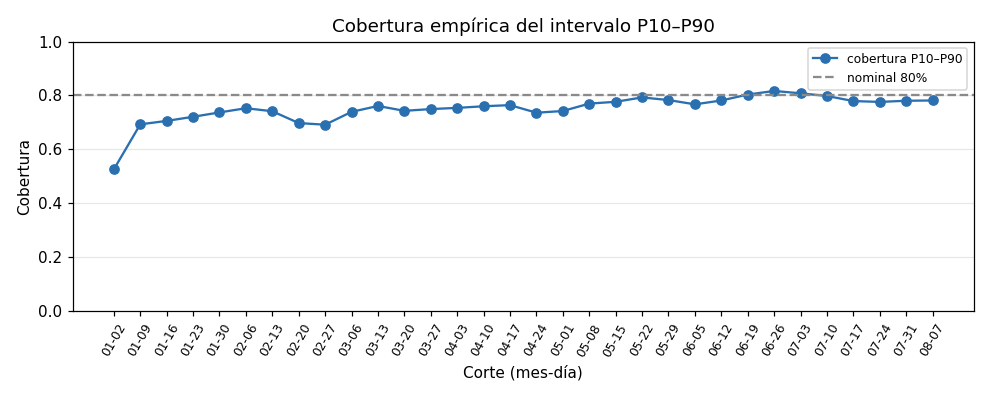
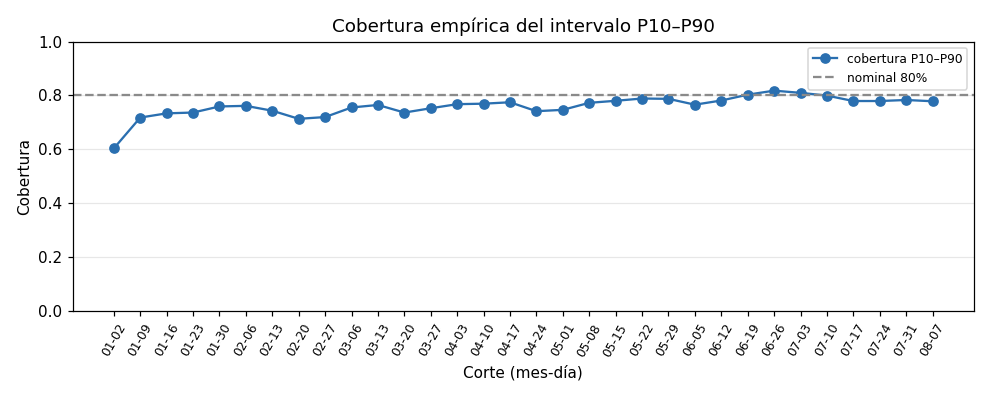
chore: backfill completo con las correcciones de la revisión independiente (#13)
Datos (.dvc), reportes de comparación y seguimiento, resultados antes/después en DECISIONES
y nota en plan/ESTADO.md. Backfill 2017-01-02 → 2017-08-14 en Docker con el código de fd25eca.

diff --git a/reports/seguimiento.md b/reports/seguimiento.md
@@ -4,48 +4,48 @@ Compara cada pronóstico publicado con las ventas reales visibles en la fecha de
 
 ## Alerta de degradación
 
-WAPE móvil 0.1370 vs backtest 0.1742 (-21.4%): dentro del umbral de 20%
+WAPE móvil 0.1366 vs backtest 0.1746 (-21.8%): dentro del umbral de 20%
 
-- WAPE móvil (4 cortes: 2017-07-17, 2017-07-24, 2017-07-31, 2017-08-07): **0.1370**
-- WAPE del backtest del champion (lgbm-2017-01-02-496d76f4): 0.1742
+- WAPE móvil (4 cortes: 2017-07-17, 2017-07-24, 2017-07-31, 2017-08-07): **0.1366**
+- WAPE del backtest del champion (lgbm-2017-01-02-d1a22558): 0.1746
 - Umbral: +20% (solo advertencia, sin reentrenamiento automático)
 
 ## Desempeño por corte (última revisión de cada corte)
 
 | Corte | Rev | Estado | Días con real | WAPE | RMSLE | Sesgo | Cobertura P10–P90 | Costo | Costo total | Fill rate |
 |---|---|---|---|---|---|---|---|---|---|---|
-| 2017-01-02 | 1 | completo | 14 | 0.5631 | 0.6847 | -0.559 | 0.526 | completo | 4,022,376 | 0.4579 |
-| 2017-01-09 | 1 | completo | 14 | 0.1586 | 0.4144 | -0.048 | 0.693 | completo | 447,316 | 0.9388 |
-| 2017-01-16 | 1 | completo | 14 | 0.1503 | 0.4053 | -0.031 | 0.706 | completo | 385,471 | 0.9480 |
-| 2017-01-23 | 1 | completo | 14 | 0.1505 | 0.4555 | -0.058 | 0.721 | completo | 294,318 | 0.9632 |
-| 2017-01-30 | 1 | completo | 14 | 0.1395 | 0.4399 | -0.055 | 0.737 | completo | 529,833 | 0.9235 |
-| 2017-02-06 | 2 | completo | 14 | 0.1169 | 0.5090 | -0.007 | 0.753 | completo | 351,549 | 0.9528 |
-| 2017-02-13 | 1 | completo | 14 | 0.1399 | 0.5304 | -0.005 | 0.742 | completo | 308,336 | 0.9659 |
-| 2017-02-20 | 1 | completo | 14 | 0.1959 | 0.5039 | -0.127 | 0.698 | completo | 433,621 | 0.9424 |
-| 2017-02-27 | 1 | completo | 14 | 0.1871 | 0.4681 | -0.149 | 0.691 | completo | 1,110,891 | 0.8378 |
-| 2017-03-06 | 1 | completo | 14 | 0.1321 | 0.3988 | -0.089 | 0.739 | completo | 489,623 | 0.9210 |
-| 2017-03-13 | 2 | completo | 14 | 0.1315 | 0.4122 | -0.088 | 0.761 | completo | 511,793 | 0.9199 |
-| 2017-03-20 | 1 | completo | 14 | 0.1512 | 0.5585 | -0.088 | 0.743 | completo | 489,987 | 0.9231 |
-| 2017-03-27 | 1 | completo | 14 | 0.1501 | 0.5385 | -0.056 | 0.750 | completo | 559,827 | 0.9215 |
-| 2017-04-03 | 1 | completo | 14 | 0.1400 | 0.4418 | -0.040 | 0.754 | completo | 381,792 | 0.9539 |
-| 2017-04-10 | 1 | completo | 14 | 0.1326 | 0.4222 | -0.027 | 0.760 | completo | 386,571 | 0.9469 |
-| 2017-04-17 | 1 | completo | 14 | 0.1441 | 0.7361 | -0.041 | 0.764 | completo | 464,654 | 0.9493 |
-| 2017-04-24 | 1 | completo | 14 | 0.1676 | 0.4513 | -0.081 | 0.736 | completo | 467,434 | 0.9365 |
-| 2017-05-01 | 1 | completo | 14 | 0.1575 | 0.4411 | -0.069 | 0.742 | completo | 677,130 | 0.9099 |
-| 2017-05-08 | 2 | completo | 14 | 0.1308 | 0.4368 | -0.027 | 0.770 | completo | 397,868 | 0.9680 |
-| 2017-05-15 | 1 | completo | 14 | 0.1335 | 0.4248 | -0.075 | 0.777 | completo | 423,496 | 0.9400 |
-| 2017-05-22 | 1 | completo | 14 | 0.1319 | 0.3999 | -0.055 | 0.793 | completo | 312,089 | 0.9580 |
-| 2017-05-29 | 1 | completo | 14 | 0.1362 | 0.3986 | -0.072 | 0.783 | completo | 403,707 | 0.9484 |
-| 2017-06-05 | 1 | completo | 14 | 0.1295 | 0.4003 | -0.049 | 0.767 | completo | 419,039 | 0.9415 |
-| 2017-06-12 | 1 | completo | 14 | 0.1183 | 0.3900 | -0.021 | 0.781 | completo | 277,677 | 0.9681 |
-| 2017-06-19 | 1 | completo | 14 | 0.1094 | 0.3900 | -0.024 | 0.803 | completo | 255,864 | 0.9708 |
-| 2017-06-26 | 1 | parcial | 13 | 0.1071 | 0.3771 | -0.010 | 0.817 | completo | 281,626 | 0.9762 |
-| 2017-07-03 | 1 | parcial | 13 | 0.1086 | 0.3792 | -0.009 | 0.808 | pendiente | — | — |
-| 2017-07-10 | 1 | completo | 14 | 0.1172 | 0.3890 | -0.008 | 0.798 | completo | 309,744 | 0.9729 |
-| 2017-07-17 | 1 | completo | 14 | 0.1272 | 0.4065 | -0.043 | 0.779 | completo | 311,756 | 0.9688 |
-| 2017-07-24 | 1 | completo | 14 | 0.1362 | 0.4292 | -0.042 | 0.776 | completo | 436,220 | 0.9389 |
-| 2017-07-31 | 1 | completo | 14 | 0.1423 | 0.4360 | +0.002 | 0.780 | completo | 355,876 | 0.9661 |
-| 2017-08-07 | 1 | parcial | 7 | 0.1485 | 0.4093 | +0.034 | 0.781 | completo | 429,266 | 0.9695 |
+| 2017-01-02 | 1 | completo | 14 | 0.2172 | 0.5514 | -0.156 | 0.604 | completo | 1,524,326 | 0.7984 |
+| 2017-01-09 | 1 | completo | 14 | 0.1413 | 0.4112 | -0.034 | 0.718 | completo | 440,487 | 0.9446 |
+| 2017-01-16 | 1 | completo | 14 | 0.1314 | 0.4031 | -0.014 | 0.734 | completo | 387,662 | 0.9523 |
+| 2017-01-23 | 1 | completo | 14 | 0.1334 | 0.4508 | -0.033 | 0.737 | completo | 301,973 | 0.9655 |
+| 2017-01-30 | 1 | completo | 14 | 0.1300 | 0.4445 | -0.036 | 0.759 | completo | 457,989 | 0.9371 |
+| 2017-02-06 | 2 | completo | 14 | 0.1163 | 0.5135 | +0.009 | 0.761 | completo | 278,878 | 0.9700 |
+| 2017-02-13 | 1 | completo | 14 | 0.1483 | 0.5360 | +0.015 | 0.743 | completo | 285,933 | 0.9800 |
+| 2017-02-20 | 1 | completo | 14 | 0.1878 | 0.5125 | -0.103 | 0.713 | completo | 429,938 | 0.9564 |
+| 2017-02-27 | 1 | completo | 14 | 0.1811 | 0.4784 | -0.141 | 0.720 | completo | 989,108 | 0.8568 |
+| 2017-03-06 | 1 | completo | 14 | 0.1351 | 0.4020 | -0.092 | 0.755 | completo | 471,417 | 0.9243 |
+| 2017-03-13 | 2 | completo | 14 | 0.1320 | 0.4125 | -0.086 | 0.765 | completo | 481,125 | 0.9255 |
+| 2017-03-20 | 1 | completo | 14 | 0.1529 | 0.5599 | -0.089 | 0.737 | completo | 465,286 | 0.9273 |
+| 2017-03-27 | 1 | completo | 14 | 0.1500 | 0.5398 | -0.050 | 0.753 | completo | 509,013 | 0.9301 |
+| 2017-04-03 | 1 | completo | 14 | 0.1393 | 0.4413 | -0.036 | 0.768 | completo | 363,482 | 0.9571 |
+| 2017-04-10 | 1 | completo | 14 | 0.1346 | 0.4250 | -0.024 | 0.770 | completo | 378,907 | 0.9550 |
+| 2017-04-17 | 1 | completo | 14 | 0.1444 | 0.6602 | -0.036 | 0.775 | completo | 464,567 | 0.9497 |
+| 2017-04-24 | 1 | completo | 14 | 0.1677 | 0.4535 | -0.084 | 0.742 | completo | 475,237 | 0.9350 |
+| 2017-05-01 | 1 | completo | 14 | 0.1569 | 0.4427 | -0.072 | 0.747 | completo | 683,989 | 0.9082 |
+| 2017-05-08 | 2 | completo | 14 | 0.1323 | 0.4379 | -0.031 | 0.773 | completo | 380,388 | 0.9681 |
+| 2017-05-15 | 1 | completo | 14 | 0.1358 | 0.4252 | -0.077 | 0.780 | completo | 435,448 | 0.9372 |
+| 2017-05-22 | 1 | completo | 14 | 0.1343 | 0.4001 | -0.058 | 0.789 | completo | 314,672 | 0.9566 |
+| 2017-05-29 | 1 | completo | 14 | 0.1378 | 0.3988 | -0.074 | 0.788 | completo | 400,081 | 0.9488 |
+| 2017-06-05 | 1 | completo | 14 | 0.1302 | 0.4007 | -0.055 | 0.766 | completo | 455,613 | 0.9347 |
+| 2017-06-12 | 1 | completo | 14 | 0.1192 | 0.3909 | -0.025 | 0.781 | completo | 290,211 | 0.9647 |
+| 2017-06-19 | 1 | completo | 14 | 0.1094 | 0.3903 | -0.027 | 0.803 | completo | 265,122 | 0.9684 |
+| 2017-06-26 | 1 | parcial | 13 | 0.1070 | 0.3768 | -0.012 | 0.818 | completo | 284,317 | 0.9768 |
+| 2017-07-03 | 1 | parcial | 13 | 0.1078 | 0.3788 | -0.011 | 0.810 | pendiente | — | — |
+| 2017-07-10 | 1 | completo | 14 | 0.1179 | 0.3889 | -0.009 | 0.800 | completo | 312,568 | 0.9739 |
+| 2017-07-17 | 1 | completo | 14 | 0.1276 | 0.4067 | -0.046 | 0.779 | completo | 312,548 | 0.9688 |
+| 2017-07-24 | 1 | completo | 14 | 0.1355 | 0.4292 | -0.046 | 0.779 | completo | 440,032 | 0.9380 |
+| 2017-07-31 | 1 | completo | 14 | 0.1413 | 0.4355 | +0.001 | 0.783 | completo | 342,430 | 0.9684 |
+| 2017-08-07 | 1 | parcial | 7 | 0.1483 | 0.4085 | +0.034 | 0.779 | completo | 439,193 | 0.9708 |
 | 2017-08-14 | 1 | sin_datos | 0 | — | — | — | — | pendiente | — | — |
 
 ## Real pendiente (días que ya debieron llegar y faltan)
@@ -57,47 +57,47 @@ WAPE móvil 0.1370 vs backtest 0.1742 (-21.4%): dentro del umbral de 20%
 
 | Corte | Rev | Emitida en | Estado | WAPE |
 |---|---|---|---|---|
-| 2017-02-06 | 2 | 2017-02-13 | completo | 0.1169 |
-| 2017-03-13 | 2 | 2017-03-20 | completo | 0.1315 |
-| 2017-05-08 | 2 | 2017-05-15 | completo | 0.1308 |
+| 2017-02-06 | 2 | 2017-02-13 | completo | 0.1163 |
+| 2017-03-13 | 2 | 2017-03-20 | completo | 0.1320 |
+| 2017-05-08 | 2 | 2017-05-15 | completo | 0.1323 |
 
 ## Desempeño por familia (ventana móvil)
 
 | Familia | WAPE | Costo |
 |---|---|---|
-| BOOKS | 1.3165 | 42 |
-| HOME APPLIANCES | 1.1794 | 164 |
-| BABY CARE | 1.0001 | 107 |
-| SCHOOL AND OFFICE SUPPLIES | 0.8698 | 28,772 |
-| HARDWARE | 0.7090 | 315 |
-| LINGERIE | 0.4996 | 962 |
-| CELEBRATION | 0.3886 | 1,547 |
-| MAGAZINES | 0.3831 | 675 |
-| AUTOMOTIVE | 0.3808 | 738 |
-| GROCERY II | 0.3784 | 9,219 |
-| BEAUTY | 0.3614 | 602 |
-| LADIESWEAR | 0.3513 | 1,048 |
-| HOME AND KITCHEN II | 0.3357 | 3,481 |
-| HOME AND KITCHEN I | 0.3334 | 3,564 |
-| PET SUPPLIES | 0.3119 | 740 |
-| PLAYERS AND ELECTRONICS | 0.2991 | 909 |
-| LAWN AND GARDEN | 0.2841 | 1,138 |
-| LIQUOR,WINE,BEER | 0.2664 | 9,596 |
-| CLEANING | 0.2273 | 135,316 |
-| SEAFOOD | 0.2107 | 4,095 |
-| EGGS | 0.1776 | 35,164 |
-| HOME CARE | 0.1763 | 15,889 |
-| PREPARED FOODS | 0.1743 | 15,741 |
-| FROZEN FOODS | 0.1710 | 24,196 |
-| PERSONAL CARE | 0.1542 | 13,943 |
-| BEVERAGES | 0.1483 | 363,030 |
-| MEATS | 0.1277 | 46,380 |
-| DELI | 0.1194 | 31,560 |
-| POULTRY | 0.1183 | 44,091 |
-| GROCERY I | 0.1137 | 366,931 |
-| BREAD/BAKERY | 0.1088 | 64,453 |
-| DAIRY | 0.1062 | 96,866 |
-| PRODUCE | 0.0891 | 211,844 |
+| BOOKS | 1.4056 | 44 |
+| HOME APPLIANCES | 1.1792 | 166 |
+| BABY CARE | 1.0074 | 109 |
+| SCHOOL AND OFFICE SUPPLIES | 0.8646 | 28,564 |
+| HARDWARE | 0.7085 | 316 |
+| LINGERIE | 0.4996 | 990 |
+| CELEBRATION | 0.3893 | 1,551 |
+| MAGAZINES | 0.3823 | 674 |
+| GROCERY II | 0.3806 | 9,460 |
+| AUTOMOTIVE | 0.3797 | 741 |
+| BEAUTY | 0.3625 | 601 |
+| LADIESWEAR | 0.3498 | 1,089 |
+| HOME AND KITCHEN II | 0.3356 | 3,514 |
+| HOME AND KITCHEN I | 0.3313 | 3,595 |
+| PET SUPPLIES | 0.3111 | 756 |
+| PLAYERS AND ELECTRONICS | 0.2984 | 912 |
+| LAWN AND GARDEN | 0.2835 | 1,159 |
+| LIQUOR,WINE,BEER | 0.2691 | 9,616 |
+| CLEANING | 0.2285 | 134,776 |
+| SEAFOOD | 0.2158 | 4,491 |
+| EGGS | 0.1755 | 34,175 |
+| HOME CARE | 0.1717 | 16,057 |
+| PREPARED FOODS | 0.1698 | 15,195 |
+| FROZEN FOODS | 0.1698 | 23,830 |
+| PERSONAL CARE | 0.1541 | 14,688 |
+| BEVERAGES | 0.1479 | 367,199 |
+| MEATS | 0.1253 | 45,243 |
+| DELI | 0.1167 | 30,725 |
+| POULTRY | 0.1164 | 43,331 |
+| GROCERY I | 0.1145 | 367,893 |
+| BREAD/BAKERY | 0.1071 | 63,743 |
+| DAIRY | 0.1035 | 92,944 |
+| PRODUCE | 0.0879 | 216,056 |
 
 ## Gráficos
 

diff --git a/reports/comparacion_modelos.md b/reports/comparacion_modelos.md
@@ -6,22 +6,22 @@ Backtest rolling-origin con 8 orígenes semanales (2017-06-12 a 2017-07-31), mis
 
 | Métrica | Baseline | LightGBM | Cambio relativo |
 |---|---|---|---|
-| WAPE (mediana) | 0.1425 | 0.1207 | -15.3% |
-| RMSLE (mediana) | 0.4516 | 0.4000 | -11.4% |
-| Pinball q0.50 | 33.941 | 28.741 | -15.3% |
-| Pinball q0.90 | 23.003 | 17.111 | -25.6% |
-| Cobertura P10-P90 | 0.8431 | 0.7991 | -5.2% |
-| Costo de negocio total | 2,991,009 | 2,379,594 | -20.4% |
-| Fill rate | 0.9741 | 0.9724 | -0.2% |
-| Merma (% de lo pedido) | 0.1062 | 0.0601 | -43.4% |
+| WAPE (mediana) | 0.1412 | 0.1197 | -15.2% |
+| RMSLE (mediana) | 0.4513 | 0.3998 | -11.4% |
+| Pinball q0.50 | 33.626 | 28.508 | -15.2% |
+| Pinball q0.90 | 22.378 | 17.070 | -23.7% |
+| Cobertura P10-P90 | 0.8412 | 0.8019 | -4.7% |
+| Costo de negocio total | 2,949,032 | 2,363,349 | -19.9% |
+| Fill rate | 0.9730 | 0.9722 | -0.1% |
+| Merma (% de lo pedido) | 0.1018 | 0.0595 | -41.5% |
 
 ## Decisión de promoción (LightGBM como challenger del baseline)
 
 **PROMOVER**
 
-- cumple: el costo total baja 20.4% (se exige al menos 3%)
-- cumple: el WAPE cambia -15.3% (se tolera hasta +1%)
-- cumple: cobertura P10-P90 0.799 (rango [0.7, 0.9])
+- cumple: el costo total baja 19.9% (se exige al menos 3%)
+- cumple: el WAPE cambia -15.2% (se tolera hasta +1%)
+- cumple: cobertura P10-P90 0.802 (rango [0.7, 0.9])
 - cumple: ninguna familia grande empeora su costo de forma material
 - cumple: checks técnicos sin problemas
 
@@ -29,58 +29,58 @@ Backtest rolling-origin con 8 orígenes semanales (2017-06-12 a 2017-07-31), mis
 
 | Familia | % volumen | WAPE base | WAPE LGBM | Costo base | Costo LGBM | Δ costo |
 |---|---|---|---|---|---|---|
-| GROCERY I | 29.3% | 0.128 | 0.101 | 845,189 | 520,147 | -38.5% |
-| BEVERAGES | 22.6% | 0.150 | 0.130 | 718,379 | 574,598 | -20.0% |
-| PRODUCE | 15.1% | 0.088 | 0.079 | 350,526 | 342,161 | -2.4% |
-| CLEANING | 8.3% | 0.228 | 0.194 | 230,335 | 199,657 | -13.3% |
-| DAIRY | 5.6% | 0.106 | 0.091 | 154,105 | 133,760 | -13.2% |
-| BREAD/BAKERY | 3.5% | 0.114 | 0.104 | 122,296 | 114,789 | -6.1% |
-| POULTRY | 2.5% | 0.127 | 0.108 | 82,084 | 76,813 | -6.4% |
-| MEATS | 2.4% | 0.131 | 0.121 | 82,046 | 78,644 | -4.1% |
-| HOME CARE | 2.0% | 0.178 | 0.146 | 31,654 | 22,086 | -30.2% |
-| DELI | 2.0% | 0.139 | 0.114 | 74,413 | 57,465 | -22.8% |
-| PERSONAL CARE | 2.0% | 0.193 | 0.141 | 43,237 | 26,874 | -37.8% |
-| EGGS | 1.3% | 0.180 | 0.170 | 59,042 | 65,288 | +10.6% |
-| FROZEN FOODS | 0.8% | 0.182 | 0.166 | 43,735 | 44,319 | +1.3% |
-| LIQUOR,WINE,BEER | 0.6% | 0.295 | 0.260 | 27,896 | 16,516 | -40.8% |
-| PREPARED FOODS | 0.6% | 0.174 | 0.168 | 26,831 | 29,722 | +10.8% |
-| GROCERY II | 0.2% | 0.366 | 0.346 | 15,699 | 14,310 | -8.9% |
-| HOME AND KITCHEN I | 0.2% | 0.416 | 0.340 | 10,471 | 7,893 | -24.6% |
-| HOME AND KITCHEN II | 0.2% | 0.393 | 0.323 | 8,767 | 6,869 | -21.7% |
-| SEAFOOD | 0.1% | 0.257 | 0.228 | 11,227 | 9,628 | -14.2% |
-| LAWN AND GARDEN | 0.1% | 0.309 | 0.285 | 4,794 | 2,659 | -44.5% |
-| SCHOOL AND OFFICE SUPPLIES | 0.1% | 0.942 | 0.887 | 25,363 | 19,911 | -21.5% |
-| CELEBRATION | 0.1% | 0.402 | 0.371 | 4,088 | 2,864 | -29.9% |
-| LADIESWEAR | 0.1% | 0.364 | 0.327 | 2,765 | 2,104 | -23.9% |
-| PLAYERS AND ELECTRONICS | 0.1% | 0.321 | 0.293 | 3,164 | 1,884 | -40.5% |
-| PET SUPPLIES | 0.1% | 0.348 | 0.313 | 2,603 | 1,477 | -43.3% |
-| AUTOMOTIVE | 0.0% | 0.412 | 0.372 | 2,180 | 1,501 | -31.1% |
-| LINGERIE | 0.0% | 0.527 | 0.478 | 2,799 | 1,797 | -35.8% |
-| MAGAZINES | 0.0% | 0.413 | 0.390 | 2,045 | 1,364 | -33.3% |
-| BEAUTY | 0.0% | 0.418 | 0.354 | 1,927 | 1,199 | -37.8% |
-| HARDWARE | 0.0% | 0.771 | 0.703 | 748 | 622 | -16.8% |
-| HOME APPLIANCES | 0.0% | 1.410 | 1.006 | 386 | 391 | +1.4% |
-| BABY CARE | 0.0% | 1.349 | 0.993 | 178 | 210 | +17.6% |
-| BOOKS | 0.0% | 2.109 | 1.031 | 39 | 72 | +84.2% |
+| GROCERY I | 29.3% | 0.126 | 0.100 | 817,088 | 513,774 | -37.1% |
+| BEVERAGES | 22.6% | 0.149 | 0.128 | 703,524 | 576,638 | -18.0% |
+| PRODUCE | 15.1% | 0.087 | 0.078 | 353,443 | 333,804 | -5.6% |
+| CLEANING | 8.3% | 0.227 | 0.193 | 228,267 | 201,126 | -11.9% |
+| DAIRY | 5.6% | 0.105 | 0.090 | 154,184 | 131,991 | -14.4% |
+| BREAD/BAKERY | 3.5% | 0.113 | 0.103 | 122,788 | 114,871 | -6.4% |
+| POULTRY | 2.5% | 0.126 | 0.108 | 82,834 | 73,872 | -10.8% |
+| MEATS | 2.4% | 0.130 | 0.120 | 82,767 | 78,678 | -4.9% |
+| HOME CARE | 2.0% | 0.178 | 0.146 | 30,086 | 21,597 | -28.2% |
+| DELI | 2.0% | 0.137 | 0.114 | 74,913 | 58,325 | -22.1% |
+| PERSONAL CARE | 2.0% | 0.192 | 0.142 | 41,788 | 27,001 | -35.4% |
+| EGGS | 1.3% | 0.179 | 0.171 | 59,630 | 64,835 | +8.7% |
+| FROZEN FOODS | 0.8% | 0.181 | 0.166 | 44,228 | 44,910 | +1.5% |
+| LIQUOR,WINE,BEER | 0.6% | 0.294 | 0.260 | 27,769 | 16,684 | -39.9% |
+| PREPARED FOODS | 0.6% | 0.174 | 0.166 | 27,138 | 29,015 | +6.9% |
+| GROCERY II | 0.2% | 0.365 | 0.347 | 15,545 | 14,030 | -9.7% |
+| HOME AND KITCHEN I | 0.2% | 0.415 | 0.341 | 10,364 | 7,820 | -24.5% |
+| HOME AND KITCHEN II | 0.2% | 0.391 | 0.325 | 8,657 | 6,866 | -20.7% |
+| SEAFOOD | 0.1% | 0.256 | 0.226 | 11,308 | 9,309 | -17.7% |
+| LAWN AND GARDEN | 0.1% | 0.309 | 0.283 | 4,739 | 2,697 | -43.1% |
+| SCHOOL AND OFFICE SUPPLIES | 0.1% | 0.942 | 0.889 | 25,378 | 20,031 | -21.1% |
+| CELEBRATION | 0.1% | 0.402 | 0.372 | 4,048 | 2,873 | -29.0% |
+| LADIESWEAR | 0.1% | 0.364 | 0.325 | 2,702 | 2,104 | -22.1% |
+| PLAYERS AND ELECTRONICS | 0.1% | 0.320 | 0.293 | 3,132 | 1,888 | -39.7% |
+| PET SUPPLIES | 0.1% | 0.347 | 0.310 | 2,555 | 1,483 | -42.0% |
+| AUTOMOTIVE | 0.0% | 0.412 | 0.373 | 2,167 | 1,494 | -31.1% |
+| LINGERIE | 0.0% | 0.527 | 0.477 | 2,769 | 1,800 | -35.0% |
+| MAGAZINES | 0.0% | 0.413 | 0.390 | 2,010 | 1,358 | -32.4% |
+| BEAUTY | 0.0% | 0.418 | 0.354 | 1,862 | 1,178 | -36.7% |
+| HARDWARE | 0.0% | 0.770 | 0.703 | 748 | 621 | -16.9% |
+| HOME APPLIANCES | 0.0% | 1.410 | 1.001 | 384 | 392 | +2.0% |
+| BABY CARE | 0.0% | 1.349 | 0.989 | 178 | 213 | +19.9% |
+| BOOKS | 0.0% | 2.109 | 1.047 | 39 | 71 | +81.4% |
 
 ## Por horizonte (h = días desde el corte)
 
 | h | WAPE base | WAPE LGBM | Cobertura base | Cobertura LGBM |
 |---|---|---|---|---|
-| 1.0 | 0.1249 | 0.1129 | 0.8627 | 0.8086 |
-| 2.0 | 0.1555 | 0.1163 | 0.8239 | 0.8044 |
-| 3.0 | 0.1319 | 0.1051 | 0.8373 | 0.8063 |
-| 4.0 | 0.1406 | 0.1204 | 0.8429 | 0.7941 |
-| 5.0 | 0.1308 | 0.1215 | 0.8460 | 0.7995 |
-| 6.0 | 0.1322 | 0.1153 | 0.8414 | 0.7996 |
-| 7.0 | 0.1496 | 0.1263 | 0.8511 | 0.8023 |
-| 8.0 | 0.1288 | 0.1157 | 0.8591 | 0.7992 |
-| 9.0 | 0.1595 | 0.1208 | 0.8204 | 0.7965 |
-| 10.0 | 0.1366 | 0.1097 | 0.8394 | 0.8037 |
-| 11.0 | 0.1435 | 0.1278 | 0.8483 | 0.7886 |
-| 12.0 | 0.1472 | 0.1303 | 0.8371 | 0.8047 |
-| 13.0 | 0.1530 | 0.1291 | 0.8331 | 0.7915 |
-| 14.0 | 0.1585 | 0.1322 | 0.8561 | 0.7884 |
+| 1.0 | 0.1249 | 0.1107 | 0.8630 | 0.8067 |
+| 2.0 | 0.1555 | 0.1157 | 0.8240 | 0.8067 |
+| 3.0 | 0.1319 | 0.1047 | 0.8375 | 0.8095 |
+| 4.0 | 0.1406 | 0.1197 | 0.8430 | 0.7952 |
+| 5.0 | 0.1308 | 0.1216 | 0.8450 | 0.7986 |
+| 6.0 | 0.1322 | 0.1125 | 0.8409 | 0.8023 |
+| 7.0 | 0.1434 | 0.1245 | 0.8380 | 0.8053 |
+| 8.0 | 0.1288 | 0.1155 | 0.8586 | 0.8013 |
+| 9.0 | 0.1595 | 0.1199 | 0.8204 | 0.8005 |
+| 10.0 | 0.1366 | 0.1087 | 0.8395 | 0.8060 |
+| 11.0 | 0.1435 | 0.1264 | 0.8479 | 0.7948 |
+| 12.0 | 0.1472 | 0.1316 | 0.8368 | 0.8072 |
+| 13.0 | 0.1530 | 0.1299 | 0.8319 | 0.7936 |
+| 14.0 | 0.1505 | 0.1294 | 0.8452 | 0.7997 |
 
 ## Variante: cuantil de la demanda semanal para el pedido
 
@@ -88,6 +88,6 @@ Un modelo LightGBM con objetivo = suma de los 7 días de la cobertura (una fila 
 
 | Pedido | Costo total | Fill rate | Merma | Costo perecederos | Costo no_perecederos | Costo default | Δ costo vs LGBM diario |
 |---|---|---|---|---|---|---|---|
-| Baseline, suma de cuantiles diarios | 2,687,808 | 0.9750 | 0.1094 | 880,208 | 356,042 | 1,451,558 | +26.7% |
-| LightGBM, suma de cuantiles diarios (actual) | 2,121,607 | 0.9715 | 0.0589 | 855,079 | 278,964 | 987,564 | +0.0% |
-| LightGBM, cuantil de la demanda semanal | 2,314,601 | 0.9674 | 0.0484 | 923,177 | 310,970 | 1,080,454 | +9.1% |
+| Baseline, suma de cuantiles diarios | 2,647,613 | 0.9739 | 0.1051 | 884,349 | 350,838 | 1,412,426 | +25.5% |
+| LightGBM, suma de cuantiles diarios (actual) | 2,109,878 | 0.9713 | 0.0586 | 844,218 | 279,543 | 986,117 | +0.0% |
+| LightGBM, cuantil de la demanda semanal | 2,357,522 | 0.9673 | 0.0498 | 957,180 | 311,698 | 1,088,644 | +11.7% |

diff --git a/plan/ESTADO.md b/plan/ESTADO.md
@@ -12,8 +12,8 @@ cada fase, en el mismo PR.
 | 4 — Features, baseline, backtest, pedido | `feat/features-baseline` | ✅ Hecha | #7 | Baseline en el corte 2017-08-14: WAPE 0.143, cobertura P10–P90 84.3%, fill rate 97.4% |
 | 5 — LightGBM, registro, publicación offline | `feat/lgbm` | ✅ Hecha | #8 | LightGBM vs baseline (corte 2017-08-14): WAPE 0.121 vs 0.143, costo -20.4%; champion inicial promovido el 2017-01-02; variante semanal descartada (+9.1% costo) |
 | 6 — Airflow 3 en Docker | `feat/airflow` | ✅ Hecha | #9 | Docker verificado (ventana 2017-01-02→03-20): 114 runs en verde, 27 commits en `publicaciones`, re-ejecución sin cambios (mismo hash). Falta backfill completo y capturas de la UI (fase 8) |
-| 7 — Monitoreo, correcciones, e2e | `feat/monitoreo` | ✅ Hecha | #10 | Seguimiento por corte (as-of), revisiones por corrección (`datos_hasta`), alerta de degradación (solo advertencia), reporte MD+PNG, 11 pruebas e2e. Real (2017-01-02→08-14): WAPE por corte 0.107–0.196 (salvo 01-02: 0.563), 3 revisiones emitidas, DAG verificado en Docker |
-| 8 — Reproducibilidad, docs, entrega | `feat/docs` | ✅ Hecha | #11 | `reproducir` (REPRODUCIDO ✓ en 5 publicaciones, 3 con revisión), backfill completo en Docker (324 runs en verde, ~3 h 53 min), `.dvc` de `data/` en main, ensayo docente con bandeja distinta, README/DECISIONES/CLAUDE.md completos. Pendientes del usuario: capturas de Airflow (`reports/evidencia/README.md`), confirmar DagsHub con el docente, tag `entrega-lab1` |
+| 7 — Monitoreo, correcciones, e2e | `feat/monitoreo` | ✅ Hecha | #10 | Seguimiento por corte (as-of), revisiones por corrección (`datos_hasta`), alerta de degradación (solo advertencia), reporte MD+PNG, 11 pruebas e2e. Real (2017-01-02→08-14): WAPE por corte 0.107–0.196 (salvo 01-02: 0.563; tras la revisión independiente, 0.217), 3 revisiones emitidas, DAG verificado en Docker |
+| 8 — Reproducibilidad, docs, entrega | `feat/docs` | ✅ Hecha | #11 | `reproducir` (REPRODUCIDO ✓ en 5 publicaciones, 3 con revisión), backfill completo en Docker (324 runs en verde, ~3 h 54 min; repetido tras las correcciones de la revisión independiente), `.dvc` de `data/` en main, ensayo docente con bandeja distinta, README/DECISIONES/CLAUDE.md completos. Pendientes del usuario: capturas de Airflow (`reports/evidencia/README.md`), confirmar DagsHub con el docente, tag `entrega-lab1` |
 
 ## Decisiones tomadas durante la ejecución
 
@@ -41,3 +41,4 @@ documentarlo en `DECISIONES.md`.
 - F8 (decisión del usuario): se commitean a `main` los `.dvc` de `data/` del backfill completo (histórico, modelos, publicados, seguimiento) y se hace `dvc push`; verificado en clon limpio (`dvc status -c` limpio).
 - F8 (decisión del usuario): el tag `entrega-lab1` NO se crea desde la automatización; comando: `git switch main && git pull && git tag -a entrega-lab1 -m "Entrega Laboratorio 1" && git push origin entrega-lab1`.
 - F8: el primer backfill falló por hibernación del equipo (no por el código) y se repitió completo desde cero; ver `DECISIONES.md` §13.
+- Revisión independiente (PR #12 código + PR de datos): corregidos A1–A3 y M1–M6 (DECISIONES §14), B1–B6 como `xfail` y limitaciones. Backfill completo repetido en Docker con el código de `fd25eca`: WAPE del corte 2017-01-02 0.563 → 0.217, WAPE global 0.1547 → 0.1407, 0 alertas, tienda 52 con pedido en 04-17 (619 vs 0), 3 revisiones, `reproducir` ✓ en 6 publicaciones. La rama `publicaciones` nueva está solo en local como `publicaciones-v2` (la remota conserva el historial anterior): el usuario decide cómo reemplazarla.

diff --git a/README.md b/README.md
@@ -353,15 +353,15 @@ despausados a la vez (sin intervención):
 | Concepto | Resultado |
 |---|---|
 | Runs | 324, todos en verde: 225 `ingesta_validacion` (diarios) + 33 × 3 DAGs semanales |
-| Duración | 3 h 53 min de reloj (12:38 → 16:31 UTC), con las tareas de escritura serializadas |
+| Duración | 3 h 54 min de reloj (15:57 → 19:51, hora local), con las tareas de escritura serializadas |
 | Reentrenamientos | 8 (primer lunes de cada mes, enero–agosto), ~15–28 min cada uno |
-| Promociones de modelo | baseline como champion inicial y LightGBM promovido el 2017-01-02; los 7 challengers siguientes no superaron el criterio (`config/promotion.yaml`) y el champion vigente al 2017-08-14 es `lgbm-2017-01-02-496d76f4` |
+| Promociones de modelo | baseline como champion inicial y LightGBM promovido el 2017-01-02; los 7 challengers siguientes no superaron el criterio (`config/promotion.yaml`) y el champion vigente al 2017-08-14 es `lgbm-2017-01-02-d1a22558` |
 | Publicaciones | 36: 33 `rev=1` + 3 revisiones por corrección (`2017-02-06/rev=2`, `2017-03-13/rev=2`, `2017-05-08/rev=2`); 7 de los `rev=1` salen `degradada` (ventas atrasadas o faltantes, promociones que acaban el 08-15) |
 | Ingesta | 834 archivos hasta el 08-14: 828 válidos, 5 en cuarentena (ventas 05-10, transacciones 06-05, ventas 06-21, promociones 07-20, ventas 07-26), 1 duplicado idéntico |
 | Registro en git | 74 commits en la rama `publicaciones` (33 pronósticos + 33 seguimientos + 8 modelos) |
-| Alertas de degradación | 1 (corte 2017-01-30: el WAPE móvil incluye el corte 2017-01-02, de WAPE 0.563 por el 01-01 casi en cero) |
-| Desempeño (seguimiento al 2017-08-14) | WAPE por corte 0.107–0.196 (salvo el corte 01-02); WAPE móvil de 4 cortes 0.1370 vs 0.1742 del backtest; cobertura P10–P90 0.69–0.82 |
-| Reproducción | `reproducir` da `REPRODUCIDO ✓` (en Docker) para `2017-03-13/rev=1`, `2017-08-14/rev=1`, `2017-02-06/rev=2`, `2017-03-13/rev=2` y `2017-05-08/rev=2` |
+| Alertas de degradación | 0 (antes de las correcciones de la revisión independiente había 1, por el corte 2017-01-02 con WAPE 0.563; ahora ese corte tiene 0.217) |
+| Desempeño (seguimiento al 2017-08-14) | WAPE por corte 0.107–0.188 (el corte 01-02, el de menos historia, 0.217); WAPE global 0.1407; WAPE móvil de 4 cortes 0.1366 vs 0.1746 del backtest; cobertura P10–P90 0.60–0.82 |
+| Reproducción | `reproducir` da `REPRODUCIDO ✓` (en Docker) para `2017-03-13/rev=1`, `2017-04-17/rev=1`, `2017-08-14/rev=1`, `2017-02-06/rev=2`, `2017-03-13/rev=2` y `2017-05-08/rev=2`; re-ejecutar los DAGs semanales de 03-13 y 03-20 no cambia ningún hash ni la rama `publicaciones` |
 
 Un primer intento del backfill falló por un incidente ajeno al código (el equipo hibernó) y se repitió
 completo desde cero: ver [DECISIONES §13](DECISIONES.md).

diff --git a/DECISIONES.md b/DECISIONES.md
@@ -583,6 +583,28 @@ pasó a `tools/diagnostico_corte_2017_01_02.py`).
 - *Pruebas:* `test_revision_interrumpida_se_puede_reintentar`,
   `test_publicacion_interrumpida_no_cuenta_como_publicada`.
 
+**Resultado del backfill corregido (2017-01-02 → 2017-08-14, Docker, 324 runs en verde, 3 h 54 min):**
+
+| | Antes | Después |
+|---|---|---|
+| WAPE del corte 2017-01-02 | 0.563 | 0.217 |
+| WAPE global (suma de errores / suma de ventas) | 0.1547 | 0.1407 |
+| WAPE de los demás cortes | 0.107–0.196 | 0.107–0.188 |
+| WAPE móvil 4 cortes (08-14) vs backtest | 0.1370 vs 0.1742 | 0.1366 vs 0.1746 |
+| Cobertura P10–P90 (media / mínima por corte) | 0.751 / 0.526 | 0.760 / 0.604 |
+| Costo de negocio, suma de cortes completos | 16,926,751 | 14,061,939 |
+| Pedido de la tienda 52, corte 04-17 / 04-24 | 0 / 55,613 | 619 / 51,007 |
+| Alertas de degradación | 1 | 0 |
+| Revisiones | 3 (02-06, 03-13, 05-08) | las mismas 3 |
+| Promociones de modelo | baseline y LightGBM el 01-02; 7 challengers no superan el criterio | igual |
+| Backtest 08-14 (baseline / LightGBM) | WAPE 0.1425 / 0.1207, costo -20.4% | WAPE 0.1412 / 0.1197, costo -19.9% |
+
+La tienda 52 sigue en arranque en frío (619 unidades pedidas contra ~115 mil vendidas en su semana de
+apertura): ya no se fuerza a 0, pero sin historia de ventas el modelo no tiene de dónde aprender.
+Con la bandeja entregada A1 no cambia ningún resultado: las reentregas (05-12, 06-23, 07-28) llegan
+antes del lunes siguiente, así que ningún corte publicado las echó en falta; se prueba con escenarios
+sintéticos en otras fechas. `reproducir` da REPRODUCIDO en 6 publicaciones (3 `rev=1`, 3 revisiones).
+
 ## Limitaciones conocidas
 
 - **Ventas censuradas:** `sales` es la demanda observada, censurada por quiebres de stock (no hay
@@ -603,7 +625,7 @@ pasó a `tools/diagnostico_corte_2017_01_02.py`).
   (ventas ~1% de un día normal, cierre de año). Era un defecto de las features, no una limitación
   inevitable: se corrigió con `dias_sin_operacion` (§14, M1). Aun así sigue siendo el corte con
   menos historia comparable (la ventana de entrenamiento nunca tuvo un lunes posterior al 1-ene) y
-  su WAPE queda por encima del resto; ver §14 para los números.
+  su WAPE (0.217) queda por encima del resto (0.107–0.188).
 - **Simulador, no la bandeja oficial:** las situaciones operativas son las inyectadas por el
   simulador (`bandeja_sim/_escenarios.csv`); un formato real distinto exige un adaptador en la ingesta
   y `config/sources.yaml`.
